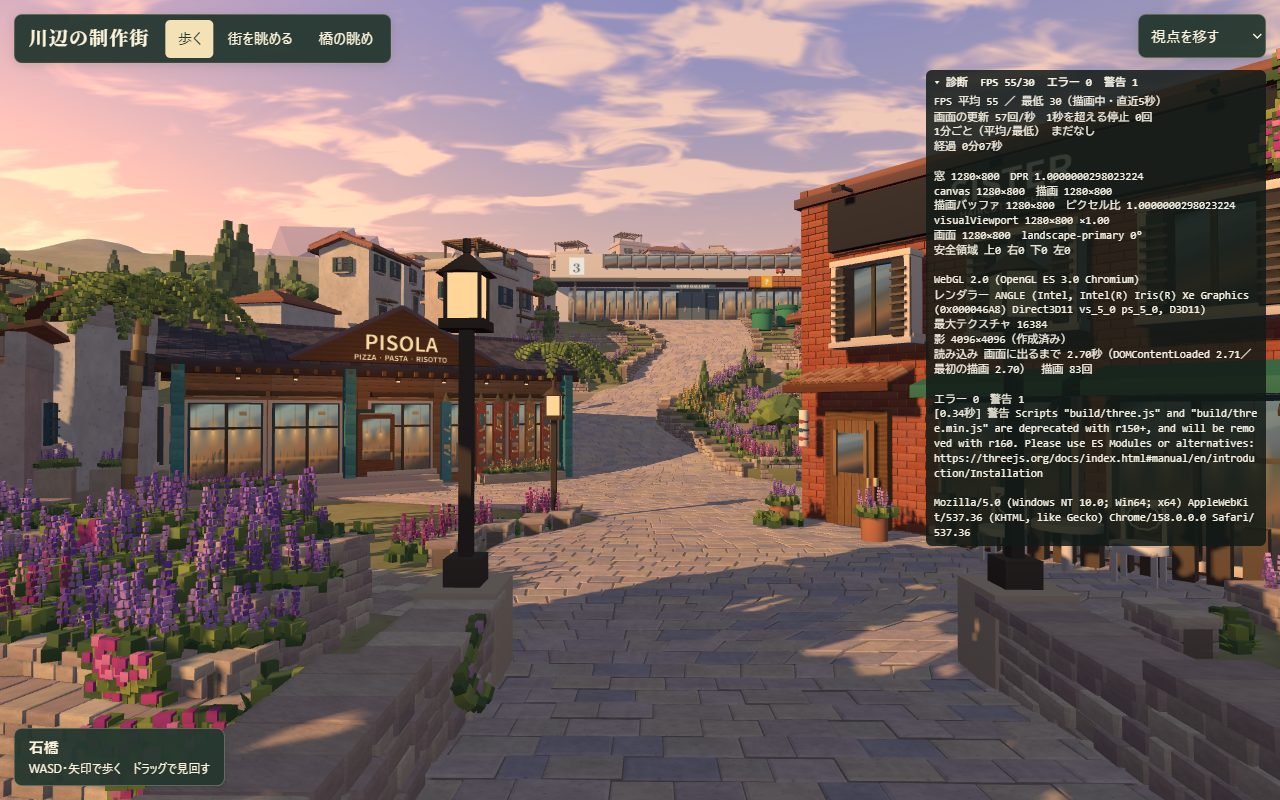
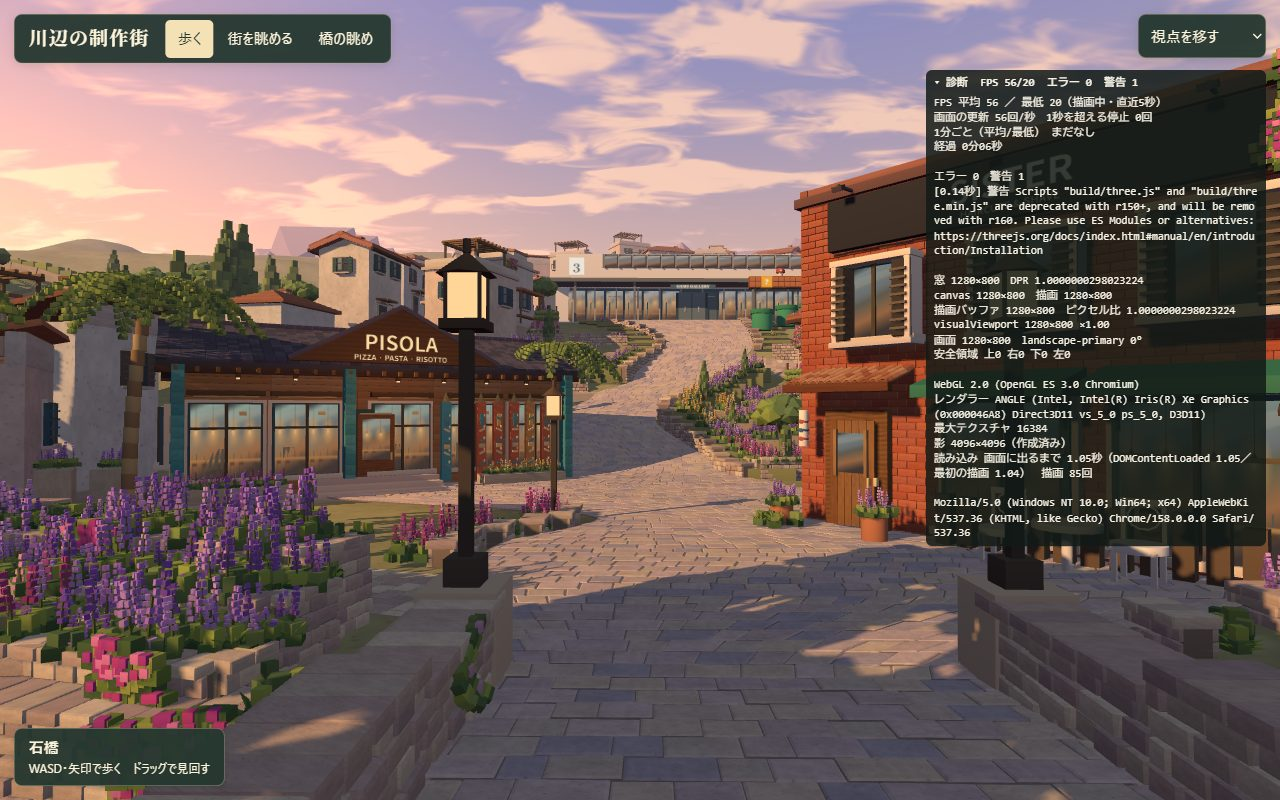
fix: レビュー指摘 R1〜R6 を反映（診断表示と確認手順）
- R2 読み込み失敗の URL はファイル名だけにする（実機の写真に PC の IP が写らない）
- R3 エラー欄を変わらない情報より上へ移し、パネルのスクロールに overscroll-behavior:contain
- R5 console に渡されたオブジェクトは名前だけにする
- R1・R4・R6 README：操作中は折りたたむ、途中の1分は出ない、D9 に #xyz
- walk.html と診断表示の画像を作り直した

Refs #9

diff --git a/prototype/review/walk.html b/prototype/review/walk.html
@@ -85,14 +85,18 @@ footer span { font-size: 12px }
   function describe(value) {
     if (value instanceof Error) return value.name + ': ' + value.message;
     if (typeof value === 'string') return value;
-    try { return JSON.stringify(value) } catch (e) { return String(value) }
+    if (value === null || (typeof value !== 'object' && typeof value !== 'function')) return String(value);
+    // Objects are named, not serialised: Three.js objects can be very large.
+    const name = value.constructor && value.constructor.name;
+    return name ? '[' + name + ']' : Object.prototype.toString.call(value);
   }
   addEventListener('error', e => {
     try {
       if (e instanceof ErrorEvent) {
         note('エラー', e.message, e.filename ? short(e.filename) + ':' + e.lineno + ':' + e.colno : '');
       } else if (e.target && e.target.tagName) {
-        note('読み込み失敗', '<' + e.target.tagName.toLowerCase() + '>', e.target.src || e.target.href || '');
+        // Only the file name: a full URL would show the PC's address in screenshots from the phone.
+        note('読み込み失敗', '<' + e.target.tagName.toLowerCase() + '>', short(e.target.src || e.target.href || ''));
       }
     } catch (err) { /* never disturb the page */ }
   }, true);
@@ -123,7 +127,7 @@ footer span { font-size: 12px }
     'background:#121a16d9;border-radius:6px;font:11px/1.35 ui-monospace,Menlo,Consolas,monospace}' +
     '#debug-panel button{margin:0;padding:5px 8px;border:0;background:none;text-align:left;' +
     'white-space:pre-wrap;font:inherit;font-weight:bold}' +
-    '#debug-panel pre{margin:0;padding:0 8px 6px;overflow:auto;white-space:pre-wrap;word-break:break-all;' +
+    '#debug-panel pre{margin:0;padding:0 8px 6px;overflow:auto;overscroll-behavior:contain;white-space:pre-wrap;word-break:break-all;' +
     'font:inherit;touch-action:pan-y}' +
     '@media(max-width:760px),(pointer:coarse){#debug-panel{top:calc(env(safe-area-inset-top,0px) + 63px);' +
     'right:calc(env(safe-area-inset-right,0px) + 8px);max-width:min(340px,calc(50vw - 8px));' +
@@ -234,6 +238,9 @@ footer span { font-size: 12px }
     const lines = [fpsLine(), '画面の更新 ' + ticks.length + '回/秒　1秒を超える停止 ' + stalls + '回',
       '1分ごと（平均/最低） ' + (minutes.length ? minutes.join(' ') : 'まだなし'),
       '経過 ' + Math.floor(now() / 60000) + '分' + String(Math.floor(now() / 1000) % 60).padStart(2, '0') + '秒'];
+    // Errors come before the values that never change, so a narrow screen shows them without scrolling.
+    lines.push('', 'エラー ' + counts.error + '　警告 ' + counts.warn);
+    entries.forEach(e => lines.push('[' + sec(e.time) + '秒] ' + e.kind + ' ' + e.text + (e.where ? '　' + e.where : '')));
     const vv = window.visualViewport;
     const orientation = screen.orientation ? screen.orientation.type + ' ' + screen.orientation.angle + '°'
       : (matchMedia('(orientation: portrait)').matches ? 'portrait' : 'landscape');
@@ -256,14 +263,12 @@ footer span { font-size: 12px }
       lines.push(link.version, 'レンダラー ' + link.name, '最大テクスチャ ' + link.maxTexture,
         '影 ' + (shadow ? shadow.mapSize.x + '×' + shadow.mapSize.y + (shadow.map ? '（作成済み）' : '（未作成）') : 'なし'));
     } else {
-      lines.push(failed ? '町の準備に失敗（下のエラーを見る）' : '町を準備中…');
+      lines.push(failed ? '町の準備に失敗（上のエラーを見る）' : '町を準備中…');
     }
     lines.push('読み込み ' + (firstShown === null ? '—' : '画面に出るまで ' + sec(firstShown) + '秒') +
       '（DOMContentLoaded ' + (contentLoaded === null ? '—' : sec(contentLoaded)) +
-      '／最初の描画 ' + (firstRender === null ? '—' : sec(firstRender)) + '）　描画 ' + renders + '回', '',
-      'エラー ' + counts.error + '　警告 ' + counts.warn);
-    entries.forEach(e => lines.push('[' + sec(e.time) + '秒] ' + e.kind + ' ' + e.text + (e.where ? '　' + e.where : '')));
-    lines.push('', navigator.userAgent);
+      '／最初の描画 ' + (firstRender === null ? '—' : sec(firstRender)) + '）　描画 ' + renders + '回',
+      '', navigator.userAgent);
     text.textContent = lines.join('\n');
   }
   update();

diff --git a/prototype/debug.js b/prototype/debug.js
@@ -19,14 +19,18 @@
   function describe(value) {
     if (value instanceof Error) return value.name + ': ' + value.message;
     if (typeof value === 'string') return value;
-    try { return JSON.stringify(value) } catch (e) { return String(value) }
+    if (value === null || (typeof value !== 'object' && typeof value !== 'function')) return String(value);
+    // Objects are named, not serialised: Three.js objects can be very large.
+    const name = value.constructor && value.constructor.name;
+    return name ? '[' + name + ']' : Object.prototype.toString.call(value);
   }
   addEventListener('error', e => {
     try {
       if (e instanceof ErrorEvent) {
         note('エラー', e.message, e.filename ? short(e.filename) + ':' + e.lineno + ':' + e.colno : '');
       } else if (e.target && e.target.tagName) {
-        note('読み込み失敗', '<' + e.target.tagName.toLowerCase() + '>', e.target.src || e.target.href || '');
+        // Only the file name: a full URL would show the PC's address in screenshots from the phone.
+        note('読み込み失敗', '<' + e.target.tagName.toLowerCase() + '>', short(e.target.src || e.target.href || ''));
       }
     } catch (err) { /* never disturb the page */ }
   }, true);
@@ -57,7 +61,7 @@
     'background:#121a16d9;border-radius:6px;font:11px/1.35 ui-monospace,Menlo,Consolas,monospace}' +
     '#debug-panel button{margin:0;padding:5px 8px;border:0;background:none;text-align:left;' +
     'white-space:pre-wrap;font:inherit;font-weight:bold}' +
-    '#debug-panel pre{margin:0;padding:0 8px 6px;overflow:auto;white-space:pre-wrap;word-break:break-all;' +
+    '#debug-panel pre{margin:0;padding:0 8px 6px;overflow:auto;overscroll-behavior:contain;white-space:pre-wrap;word-break:break-all;' +
     'font:inherit;touch-action:pan-y}' +
     '@media(max-width:760px),(pointer:coarse){#debug-panel{top:calc(env(safe-area-inset-top,0px) + 63px);' +
     'right:calc(env(safe-area-inset-right,0px) + 8px);max-width:min(340px,calc(50vw - 8px));' +
@@ -168,6 +172,9 @@
     const lines = [fpsLine(), '画面の更新 ' + ticks.length + '回/秒　1秒を超える停止 ' + stalls + '回',
       '1分ごと（平均/最低） ' + (minutes.length ? minutes.join(' ') : 'まだなし'),
       '経過 ' + Math.floor(now() / 60000) + '分' + String(Math.floor(now() / 1000) % 60).padStart(2, '0') + '秒'];
+    // Errors come before the values that never change, so a narrow screen shows them without scrolling.
+    lines.push('', 'エラー ' + counts.error + '　警告 ' + counts.warn);
+    entries.forEach(e => lines.push('[' + sec(e.time) + '秒] ' + e.kind + ' ' + e.text + (e.where ? '　' + e.where : '')));
     const vv = window.visualViewport;
     const orientation = screen.orientation ? screen.orientation.type + ' ' + screen.orientation.angle + '°'
       : (matchMedia('(orientation: portrait)').matches ? 'portrait' : 'landscape');
@@ -190,14 +197,12 @@
       lines.push(link.version, 'レンダラー ' + link.name, '最大テクスチャ ' + link.maxTexture,
         '影 ' + (shadow ? shadow.mapSize.x + '×' + shadow.mapSize.y + (shadow.map ? '（作成済み）' : '（未作成）') : 'なし'));
     } else {
-      lines.push(failed ? '町の準備に失敗（下のエラーを見る）' : '町を準備中…');
+      lines.push(failed ? '町の準備に失敗（上のエラーを見る）' : '町を準備中…');
     }
     lines.push('読み込み ' + (firstShown === null ? '—' : '画面に出るまで ' + sec(firstShown) + '秒') +
       '（DOMContentLoaded ' + (contentLoaded === null ? '—' : sec(contentLoaded)) +
-      '／最初の描画 ' + (firstRender === null ? '—' : sec(firstRender)) + '）　描画 ' + renders + '回', '',
-      'エラー ' + counts.error + '　警告 ' + counts.warn);
-    entries.forEach(e => lines.push('[' + sec(e.time) + '秒] ' + e.kind + ' ' + e.text + (e.where ? '　' + e.where : '')));
-    lines.push('', navigator.userAgent);
+      '／最初の描画 ' + (firstRender === null ? '—' : sec(firstRender)) + '）　描画 ' + renders + '回',
+      '', navigator.userAgent);
     text.textContent = lines.join('\n');
   }
   update();
